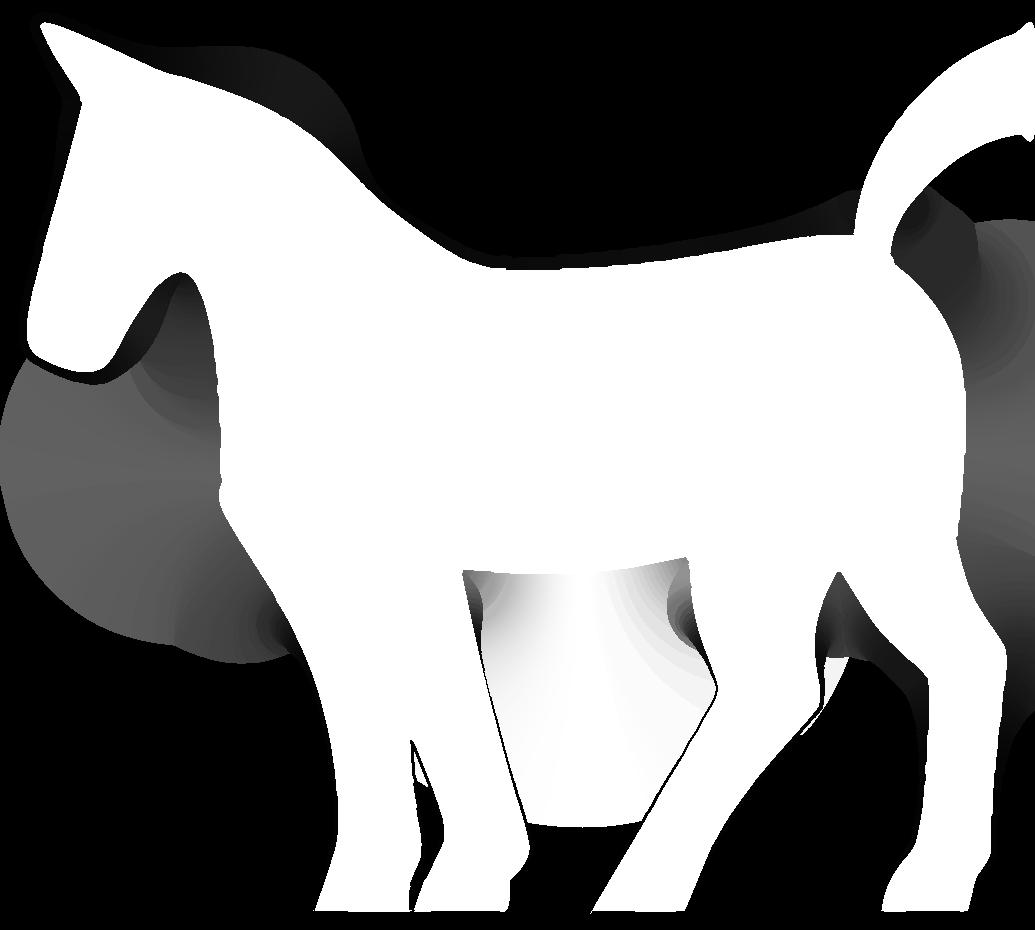
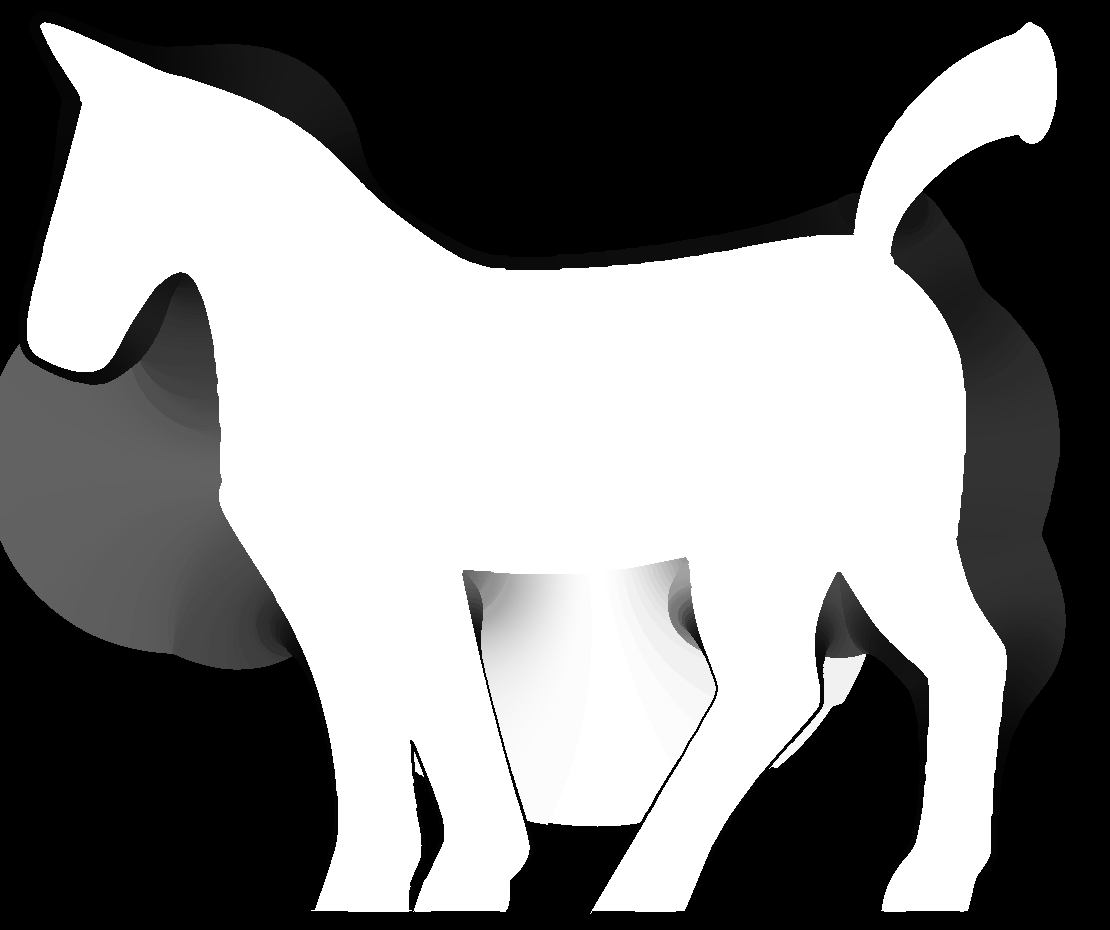
Feral horse round 2: belly back to the hind-leg gap, near legs over the belly, a soft rump with its own crease
Claude-Session: https://claude.ai/code/session_01BbqwAJD2Vg3JdyvgRbQtV6

diff --git a/lab/feral/bench.src.html b/lab/feral/bench.src.html
@@ -49,7 +49,7 @@ label.sl input{grid-column:1/-1;width:100%;accent-color:var(--accent);height:34p
   </header>
 
   <div class="stage" id="stage">
-    <canvas id="big" class="sil-cv" role="img" aria-label="The feral horse silhouette with a belly that fills and a body that fattens"></canvas>
+    <canvas id="big" class="sil-cv" role="img" aria-label="The feral horse silhouette with a belly that fills, a rump that wobbles and a body that fattens"></canvas>
   </div>
 
   <div class="acts">
@@ -57,8 +57,9 @@ label.sl input{grid-column:1/-1;width:100%;accent-color:var(--accent);height:34p
     <button type="button" class="primary" id="bGulp">Gulp</button>
     <button type="button" id="bBelch">Belch</button>
     <button type="button" id="bStruggle" aria-pressed="false">Prey struggles</button>
+    <button type="button" id="bBounce">Bounce</button>
     <button type="button" id="bEmpty">Empty</button>
-    <p class="hint">Drag the belly to rub it.</p>
+    <p class="hint">Drag the belly or the rump to rub and wobble them.</p>
   </div>
   <div class="mini"><canvas id="mini" class="sil-cv" aria-hidden="true"></canvas><span>size in a chat</span></div>
   </div>
@@ -81,7 +82,8 @@ label.sl input{grid-column:1/-1;width:100%;accent-color:var(--accent);height:34p
     <h2>What I need from you</h2>
     <ul>
       <li><b>Belly shape:</b> round and heavy enough? Too big or too small at "One meal" and "Stuffed"?</li>
-      <li><b>The crease:</b> the thin line where the belly hangs in front of the legs. Keep, thinner, thicker, or gone?</li>
+      <li><b>The creases:</b> the belly's passes behind the near legs and in front of the far ones. Did I pick the right legs as near?</li>
+      <li><b>The rump:</b> big enough when lean? When fat? Does the wobble feel right (drag it, or press Bounce)?</li>
       <li><b>Weight gain:</b> right places (gut, chest, rump, neck)? More or less anywhere?</li>
       <li><b>Motion:</b> gulp, belch with the head toss, struggle kicks, the wobble when you rub.</li>
     </ul>
@@ -98,11 +100,14 @@ const M = RIG, PAD = 44, OX = 110, OY = 80, still = () => matchMedia("(prefers-r
 const IMG = {}; for (const k in ASSET) IMG[k] = Object.assign(new Image(), { src: ASSET[k] });
 const ready = () => Object.values(IMG).every(i => i.complete && i.naturalWidth);
 const canvasOf = (w, h) => Object.assign(document.createElement("canvas"), { width: w, height: h });
-const bellyAt = (e, f) => { const FR = M.belly.frames, u = Math.max(0, Math.min(0.9999, e)) * (FR.length - 1), i = Math.floor(u), t = u - i, A = FR[i], Bf = FR[i + 1]; return A.map((p, j) => [p[0] + (Bf[j][0] - p[0]) * t, p[1] + (Bf[j][1] - p[1]) * t + f * M.fat.drop * e]); };
+const bellyAt = (e, f) => { const FR = M.belly.frames, u = Math.max(0, Math.min(0.9999, e)) * (FR.length - 1), i = Math.floor(u), t = u - i, A = FR[i], Bf = FR[i + 1]; return A.map((p, j) => [p[0] + (Bf[j][0] - p[0]) * t, p[1] + (Bf[j][1] - p[1]) * t + f * M.fat.drop * M.belly.dropw[j]]); };
 const SOFT = { nc: 40, cap: 62, max: 30, k: 0.07, nb: 0.22, damp: 0.9, mk: 0.06 };
-const E = { belly: silSoft(bellyAt(0.55, 0), M.belly.mob, SOFT), fill: 0.55, fillV: 0, target: 0.55, fat: 0, fitKey: "", struggle: false,
+const buttAt = f => M.butt.lean.map((p, i) => { const q = M.butt.fat[i]; return [p[0] + (q[0] - p[0]) * f, p[1] + (q[1] - p[1]) * f]; });
+const BSOFT = { nc: 28, cap: 30, max: 14, k: 0.07, nb: 0.22, damp: 0.9, mk: 0.06, sagMax: 0.14 };
+const E = { belly: silSoft(bellyAt(0.55, 0), M.belly.mob, SOFT), butt: silSoft(buttAt(0), M.butt.mob, BSOFT), buttKey: "", fill: 0.55, fillV: 0, target: 0.55, fat: 0, fitKey: "", struggle: false,
   head: { a: 0, va: 0, until: 0 }, puffs: [], cloudUntil: 0, t0: performance.now(), last: performance.now(), acc: 0, hand: null, color: "#e8a95b", puff: "176,222,150" };
 function refit() {
+  if (E.fat.toFixed(3) !== E.buttKey) { E.buttKey = E.fat.toFixed(3); const N = silSoft(buttAt(E.fat), M.butt.mob, BSOFT), B = E.butt; B.pts = N.pts; B.nrm = N.nrm; B.cx = N.cx; B.cy = N.cy; B.ry = N.ry; B.cap = BSOFT.cap * (1 + E.fat); B.max = BSOFT.max * (1 + E.fat); }
   const key = E.fill.toFixed(4) + ":" + E.fat.toFixed(3); if (key === E.fitKey) return; E.fitKey = key;
   const N = silSoft(bellyAt(Math.max(0, E.fill), E.fat), M.belly.mob, SOFT), B = E.belly;
   B.pts = N.pts; B.nrm = N.nrm; B.cx = N.cx; B.cy = N.cy; B.ry = N.ry;
@@ -117,9 +122,10 @@ function puffOne(big) {
 function belch(d = 1.35) {
   if (still()) return; const t = (performance.now() - E.t0) / 1000; E.head.until = t + d * 0.8; E.cloudUntil = t + Math.min(0.9, d * 0.6);
   setTimeout(() => { for (let n = 0; n < 4; n++) puffOne(1.15); }, 90);
-  E.head.va += 0.012; if (E.fill > 0.03) { silShove(E.belly, 2, -6); E.belly.sagV -= 0.03; }
+  E.head.va += 0.012; if (E.fill > 0.03) { silShove(E.belly, 2, -6); E.belly.sagV -= 0.03; } silShove(E.butt, 1, -3);
 }
-function gulp() { if (still()) return; silShove(E.belly, -4, 14); silPoke(E.belly, 22); E.belly.sagV += 0.04; }
+function gulp() { if (still()) return; silShove(E.belly, -4, 14); silPoke(E.belly, 22); E.belly.sagV += 0.04; silShove(E.butt, 2, 6); }
+function bounce() { if (still()) return; silShove(E.belly, 0, 15); E.belly.sagV += 0.05; silShove(E.butt, 5, 13); E.butt.sagV += 0.06; setTimeout(() => silShove(E.butt, -3, -8), 170); }
 function step(k, t) {
   const on = !still() && t < E.head.until, H = E.head;
   H.va += ((on ? 0.12 : 0) - H.a) * 0.09 * k; H.va *= Math.pow(0.84, k); H.a += H.va * k;
@@ -135,6 +141,7 @@ function step(k, t) {
     if (E.struggle && idle && Math.random() < k * 0.06) { silPoke(E.belly, 10 + Math.random() * 12); silShove(E.belly, (Math.random() - 0.5) * 6, (Math.random() - 0.5) * 6); }
     silStepSoft(E.belly, k, E.hand, breathe); E.belly.vx += sway * 0.02 * k;
   }
+  silStepSoft(E.butt, k, E.hand, breathe * 0.3); E.butt.vx += sway * 0.012 * k;
 }
 // weight gain, the app's formula: alpha = f * G - D + 0.5 (G = growth at full weight, D = distance from the body)
 const PIX = {};
@@ -173,7 +180,11 @@ function draw(cv) {
   if (E.fill > 0.03) {
     const g = M.ground - 2, B = E.belly, bp = silPoints(B).map(([x, y]) => { if (y <= g) return [x, y]; const o = y - g; return [x + Math.sign(x - B.cx) * o * 0.35, g + o * 0.1]; });   // a belly that reaches the ground rests on it and spreads
     silFill(f, bp); silSeams(f, bp, M.belly.seam, lw);
+    // the legs on the viewer's side go back on top: the belly and its crease pass behind them, and in front of the far legs
+    f.save(); f.beginPath(); for (const poly of M.near) { poly.forEach(([x, y], i) => i ? f.lineTo(x, y) : f.moveTo(x, y)); f.closePath(); } f.clip();
+    f.setTransform(1, 0, 0, 1, 0, 0); f.drawImage(V.B, 0, 0); f.restore(); f.setTransform(s, 0, 0, s, OX * s, OY * s);
   }
+  const rp = silPoints(E.butt); silFill(f, rp); silSeams(f, rp, M.butt.seam, lw);
   f.setTransform(1, 0, 0, 1, 0, 0); f.globalCompositeOperation = "source-in"; f.fillStyle = E.color; f.fillRect(0, 0, W, Hh); f.globalCompositeOperation = "source-over";
   const c = cv.getContext("2d"); c.setTransform(1, 0, 0, 1, 0, 0); c.clearRect(0, 0, W, Hh); c.drawImage(V.F, 0, 0);
   if (E.puffs.length) {
@@ -218,8 +229,9 @@ const setFill = v => { sFill.value = v; E.target = v / 100; show(); }, setFat = 
 sFill.oninput = () => setFill(+sFill.value); sFat.oninput = () => setFat(+sFat.value);
 $("bGulp").onclick = () => { setFill(Math.min(100, Math.round(E.target * 100) + (E.target < 0.05 ? 55 : 25))); setTimeout(gulp, 120); };
 $("bBelch").onclick = () => belch();
+$("bBounce").onclick = () => bounce();
 $("bEmpty").onclick = () => setFill(0);
 $("bStruggle").onclick = e => { E.struggle = !E.struggle; e.currentTarget.setAttribute("aria-pressed", E.struggle); };
 document.querySelectorAll("[data-fill]").forEach(b => b.onclick = () => { setFill(+b.dataset.fill); setFat(+b.dataset.fat); });
-window.BENCH = { E, belch, gulp, setFill, setFat };
+window.BENCH = { E, belch, gulp, bounce, setFill, setFat };
 </script>

diff --git a/lab/feral/mkmask.js b/lab/feral/mkmask.js
@@ -1,5 +1,5 @@
 const {chromium}=require('playwright');const fs=require('fs');
-(async()=>{const S=1.5,W=1035,H=930;const b=await chromium.launch();const p=await b.newPage({viewport:{width:W,height:H}});
+(async()=>{const S=1.5,W=1110,H=930;const b=await chromium.launch();const p=await b.newPage({viewport:{width:W,height:H}});
 const d=fs.readFileSync('horse.svg','utf8').match(/ d="([^"]+)"/)[1];
-const url=await p.evaluate(({d,S,W,H})=>{const c=document.createElement('canvas');c.width=W;c.height=H;const x=c.getContext('2d');x.scale(S,S);x.fillStyle='#fff';x.fill(new Path2D(d),'evenodd');return c.toDataURL('image/png');},{d,S,W,H});
+const url=await p.evaluate(({d,S,W,H})=>{const c=document.createElement('canvas');c.width=W;c.height=H;const x=c.getContext('2d');x.scale(S,S);x.fillStyle='#fff';x.fill(new Path2D(d),'evenodd');x.beginPath();x.ellipse(688,56,17,40,0,0,7);x.fill();return c.toDataURL('image/png');},{d,S,W,H});
 fs.writeFileSync('body_feralhorse.png',Buffer.from(url.split(',')[1],'base64'));await b.close();})();

diff --git a/lab/feral/mkrig.py b/lab/feral/mkrig.py
@@ -21,7 +21,7 @@ def outline(e):
           (L,(xL,Y0+0.8*D),(xb-0.51*(xb-xL),yb),Bm),
           (Bm,(xb+0.54*(xR-xb),yb),(xR,Y0+0.81*D),R),
           (R,(xR,Y0+0.32*D),(NR[0]+28*b,NR[1]+0.115*D),NR),
-          (NR,(440,320),(330,322),NL)]
+          (NR,tuple(P['topC'][0]),tuple(P['topC'][1]),NL)]
     out=[]
     for s,k in zip(segs,CNT): out+=even(bez(*s),k)
     return out
@@ -31,7 +31,18 @@ m0,m1=B['mob']; ntop=sum(CNT[:4])
 mob=[0 if i>=ntop else round(ss((y-m0)/(m1-m0)),3) for i,(x,y) in enumerate(full)]
 r=lambda ps:[[round(x*S,1),round(y*S,1)] for x,y in ps]
 fm=json.load(open('fatmeta.json')); n=B['neck']
-rig={'w':1035,'h':930,'ground':B['ground']*S,'belly':{'frames':[r(f) for f in frames],'mob':mob,'seam':[1 if m>0.12 else 0 for m in mob]},
+# the rump: a round cheek that grows with weight, loose at the back and underneath, joined at the hip
+T=B['butt']; NB=160
+def cheek(o):
+    out=[]
+    for i in range(NB):
+        a=2*math.pi*i/NB; k=1+T['heavy'][0]*math.cos(a-math.radians(T['heavy'][1])); out.append((o['c'][0]+o['rx']*k*math.cos(a),o['c'][1]+o['ry']*k*math.sin(a)))
+    return out
+ux,uy=T['u']; bmob=[round(ss(math.cos(2*math.pi*i/NB)*ux+math.sin(2*math.pi*i/NB)*uy+0.55),3) for i in range(NB)]
+bseam=[1 if T['seam'][0]<=360*i/NB<=T['seam'][1] else 0 for i in range(NB)]
+fx0,fx1,fmin=B['dropFade']; dropw=[round(1-(1-fmin)*ss((x-fx0)/(fx1-fx0)),3) for x,y in full]
+rig={'w':1110,'h':930,'ground':B['ground']*S,'belly':{'frames':[r(f) for f in frames],'mob':mob,'dropw':dropw,'seam':[1 if m>0.12 else 0 for m in mob]},
  'neck':{'piv':[n['piv'][0]*S,n['piv'][1]*S],'r0':n['r0']*S,'r1':n['r1']*S,'rmax':n['rmax']*S,'a0':n['a0'],'a1':n['a1'],'mouth':[n['mouth'][0]*S,n['mouth'][1]*S]},
+ 'butt':{'lean':r(cheek(T['lean'])),'fat':r(cheek(T['fat'])),'mob':bmob,'seam':bseam},'near':[r(p) for p in B['near']],
  'fat':{'gmax':fm['gmax'],'ds':fm['ds'],'drop':B['fatDrop']*S}}
 json.dump(rig,open('feral.json','w'),separators=(',',':')); print(len(json.dumps(rig)))

diff --git a/lab/feral/README.md b/lab/feral/README.md
@@ -3,8 +3,8 @@
 The owner's feral art is in `src/` (horse, bird, fish, dragon, boobs). Round 1 is the **horse**: belly + weight gain, on a bench for the owner to rate.
 
 Run from this folder (needs Node + Playwright, Python + numpy + Pillow):
-- `node mkmask.js` → `body_feralhorse.png` (white mask, 1035×930 = the art × 1.5).
+- `node mkmask.js` → `body_feralhorse.png` (white mask, 1110×930 = the art × 1.5, with room behind the rump and a rounded tail tip).
 - `python3 mkfat.py` → `fatG_feralhorse.png` (growth at full weight) and `fat_feralhorse.png` (distance), the app's scheme `alpha = f*G*gmax/255 - D + 0.5`. Each pixel stores the outline point that reaches it first, so edges stay crisp. Where the fat goes: `fatblobs.json`.
-- `python3 mkrig.py` → `feral.json`: belly outline at six fill levels (same 240 points in each, `belly.json`), `mob`, the crease (`seam`), the neck bend (rings around `piv`, from `r0`), the mouth.
+- `python3 mkrig.py` → `feral.json`: belly outline at six fill levels (same 240 points in each, `belly.json`), `mob`, the crease (`seam`), the rump (`butt`: lean and fat outlines, its own soft body and crease), the near legs (`near`: drawn back over the belly), the neck bend (rings around `piv`, from `r0`), the mouth.
 - `python3 build.py` → `out/feral-horse-bench.html` (the engine functions are copied out of `index.html`).
 - `node shot.js '[["name",fill,fat,"belch",520]]'` → screenshots in `out/`.
